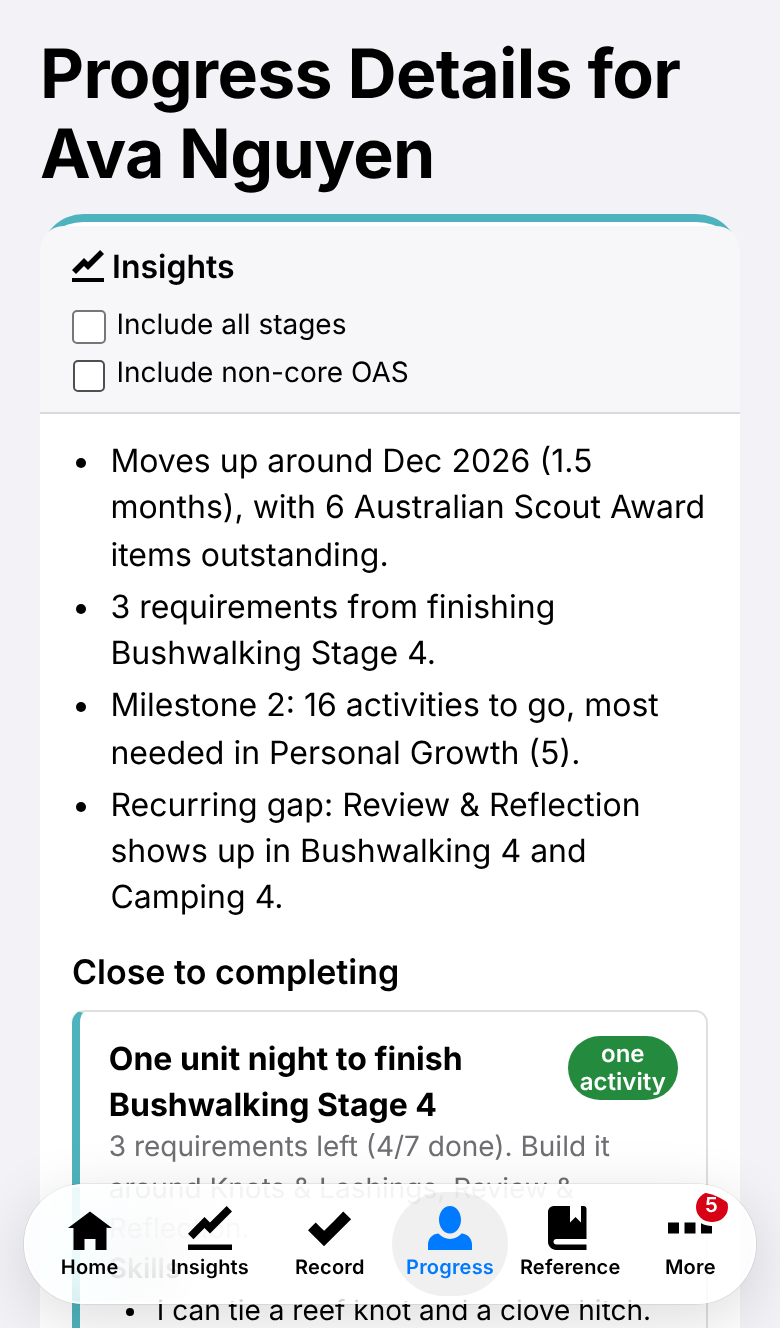
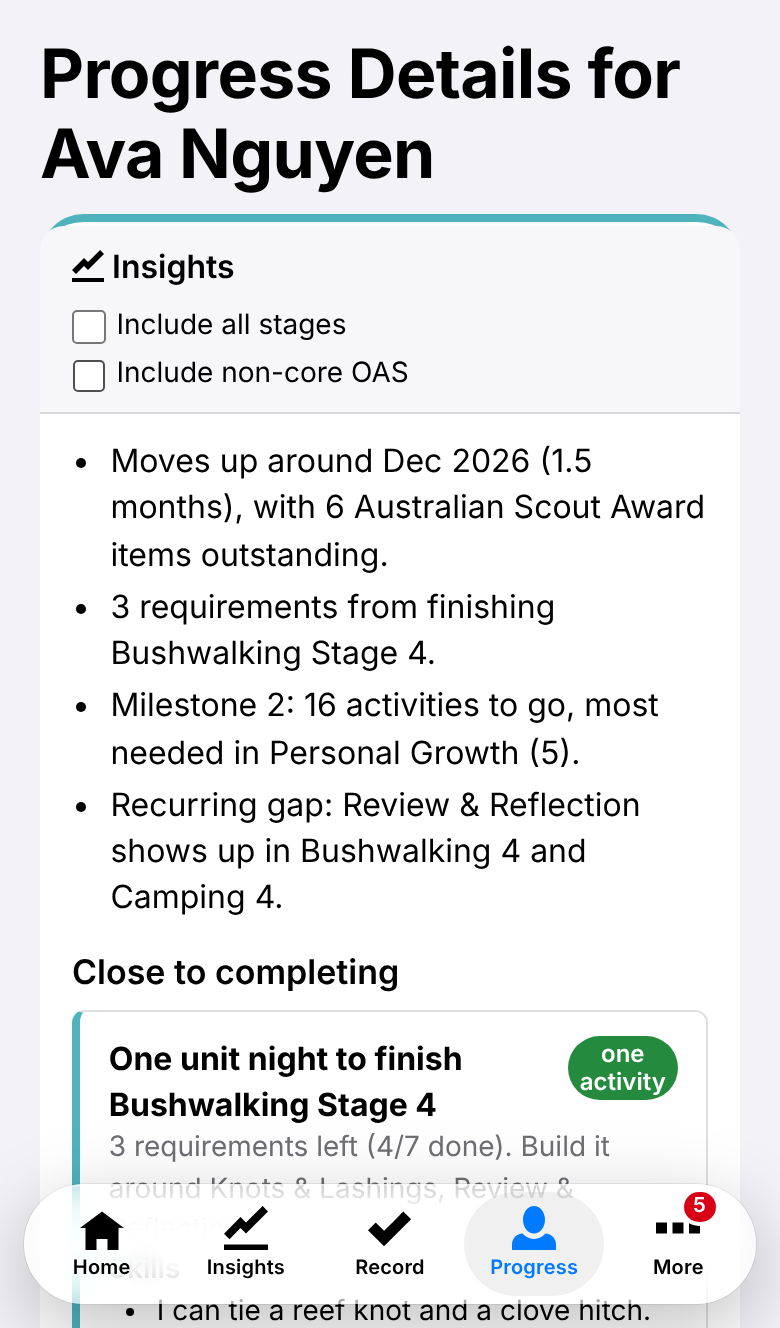
Phone tabs: Progress under More, and the open page swaps in for Reference
Five tabs instead of six, so they're less cramped. For leaders Progress moves under More. While a page from
More is open (Progress or Approvals) it takes Reference's place in the bar, with its count if it has one,
and Reference moves under More. Youth keep Progress in the bar as their main page. The desktop sidebar
is unchanged.

Claude-Session: https://claude.ai/code/session_015mRLp29RKmPLuQrvmduhrB

Changed region(s): [[0.2154, 0.8953, 0.7692, 0.9571], [0.8308, 0.8953, 0.9538, 0.9571], [0.0923, 0.8953, 0.1538, 0.9571]]

diff --git a/src/lib/navigation.ts b/src/lib/navigation.ts
@@ -27,7 +27,7 @@ export interface NavOptions {
 	approvalsWaiting?: number;
 }
 
-/** The main pages: tabs along the bottom on phones, the top of the sidebar on desktop */
+/** The main pages: the top of the sidebar on desktop, and on phones the tabs along the bottom (see phoneTabs) */
 export function mainPages({ isYouth }: NavOptions): NavPage[] {
 	const pages: NavPage[] = [
 		{ href: '', icon: 'home', title: 'Home', shortTitle: 'Home', exact: true }
@@ -51,7 +51,7 @@ export function mainPages({ isYouth }: NavOptions): NavPage[] {
 	return pages;
 }
 
-/** Less used pages: under More on phones, the bottom of the sidebar on desktop */
+/** Less used pages: the bottom of the sidebar on desktop, and under More on phones (see phoneTabs) */
 export function morePages({ isYouth, approvalsWaiting = 0 }: NavOptions): NavPage[] {
 	const pages: NavPage[] = [];
 	if (!isYouth)
@@ -66,6 +66,30 @@ export function morePages({ isYouth, approvalsWaiting = 0 }: NavOptions): NavPag
 		...pages,
 		{ href: 'logout/', icon: 'account-logout', title: 'Logout', shortTitle: 'Logout' }
 	];
+}
+
+/** Pages that may stand in for Reference on the phone's tab bar while they're open */
+const SWAPPABLE = ['progress/', 'approvals/'];
+
+/**
+	The phone's tab bar and its More menu. Fewer tabs than the sidebar so they aren't cramped: for leaders
+	Progress goes under More. While a page from More is open it takes Reference's place in the bar, and
+	Reference goes under More, so the current page always has a tab of its own.
+*/
+export function phoneTabs(options: NavOptions, path: string): { main: NavPage[]; more: NavPage[] } {
+	let main = mainPages(options);
+	let more = morePages(options);
+	if (!options.isYouth) {
+		more = [...main.filter((p) => p.href === 'progress/'), ...more];
+		main = main.filter((p) => p.href !== 'progress/');
+	}
+	const open = more.find((p) => SWAPPABLE.includes(p.href) && isActive(p, path));
+	const reference = main.find((p) => p.href === 'oas-reference/');
+	if (open && reference) {
+		main = main.map((p) => (p === reference ? open : p));
+		more = [reference, ...more.filter((p) => p !== open)];
+	}
+	return { main, more };
 }
 
 /** Logging has no menu item: tapping the version opens it, as it's only needed to help solve a problem */

diff --git a/tests/e2e/shell.e2e.ts b/tests/e2e/shell.e2e.ts
@@ -115,7 +115,7 @@ test.describe('phone', () => {
 		await expect(page.locator('.top-bar')).toHaveCount(0);
 		// The labels: More also carries the approvals badge
 		const tabs = page.locator('.tab-bar .tab .tab-label');
-		await expect(tabs).toHaveText(['Home', 'Insights', 'Record', 'Progress', 'Reference', 'More']);
+		await expect(tabs).toHaveText(['Home', 'Insights', 'Record', 'Reference', 'More']);
 		await expect(page.locator('.tab-bar .tab.active')).toHaveText('Home');
 
 		await page.locator('.tab-bar a', { hasText: 'Record' }).click();
@@ -123,10 +123,34 @@ test.describe('phone', () => {
 		await expect(page.locator('.tab-bar .tab.active')).toHaveText('Record');
 	});
 
+	test("a page opened from More takes Reference's place in the bar", async ({ page }) => {
+		await logIn(page);
+		const tabs = page.locator('.tab-bar .tab .tab-label');
+		await page.locator('.tab-bar button', { hasText: 'More' }).click();
+		await page.locator('.more-item', { hasText: 'Progress' }).click();
+		await expect(page).toHaveURL(/\/progress\/$/);
+		await expect(tabs).toHaveText(['Home', 'Insights', 'Record', 'Progress', 'More']);
+		await expect(page.locator('.tab-bar .tab.active')).toHaveText('Progress');
+		await page.locator('.tab-bar button', { hasText: 'More' }).click();
+		await expect(page.locator('.more-item')).toHaveText([
+			/^\s*Reference\s*$/,
+			/^\s*Approvals 3 waiting for you\s*$/,
+			/^\s*Logout\s*$/
+		]);
+		await page.locator('.more-item', { hasText: 'Approvals' }).click();
+		await expect(tabs).toHaveText(['Home', 'Insights', 'Record', 'Approvals', 'More']);
+		await expect(page.locator('.tab-bar a', { hasText: 'Approvals' })).toHaveAccessibleName(
+			'Approvals, 3 waiting'
+		);
+		await page.locator('.tab-bar a', { hasText: 'Home' }).click();
+		await expect(tabs).toHaveText(['Home', 'Insights', 'Record', 'Reference', 'More']);
+	});
+
 	test('More opens the less used pages, and Logout signs out', async ({ page }) => {
 		await logIn(page);
 		await page.locator('.tab-bar button', { hasText: 'More' }).click();
 		await expect(page.locator('.more-item')).toHaveText([
+			/^\s*Progress\s*$/,
 			/^\s*Approvals 3 waiting for you\s*$/,
 			/^\s*Logout\s*$/
 		]);

diff --git a/src/lib/navigation.test.ts b/src/lib/navigation.test.ts
@@ -1,5 +1,12 @@
 import { describe, expect, it } from 'vitest';
-import { isActive, mainPages, moreBadge, morePages, signedOutPages } from './navigation.js';
+import {
+	isActive,
+	mainPages,
+	moreBadge,
+	morePages,
+	phoneTabs,
+	signedOutPages
+} from './navigation.js';
 
 const leader = { signedIn: true, isYouth: false, logging: false };
 const youth = { signedIn: true, isYouth: true, logging: false };
@@ -50,5 +57,46 @@ describe('navigation', () => {
 		expect(isActive(progress, '/progress/')).toBe(true);
 		expect(isActive(progress, '/progress/m1/record-oas')).toBe(true);
 		expect(isActive(progress, '/oas/sign-off/')).toBe(false);
+	});
+
+	describe('phone tabs', () => {
+		const titles = ({ main, more }: ReturnType<typeof phoneTabs>) => ({
+			main: main.map((p) => p.shortTitle),
+			more: more.map((p) => p.title)
+		});
+
+		it('put Progress under More for leaders, to keep the tab bar roomy', () => {
+			expect(titles(phoneTabs(leader, '/insights/'))).toEqual({
+				main: ['Home', 'Insights', 'Record', 'Reference'],
+				more: ['Progress', 'Approvals', 'Logout']
+			});
+		});
+
+		it('swap the open page from More into the bar, and Reference into More', () => {
+			expect(titles(phoneTabs(leader, '/progress/m1/'))).toEqual({
+				main: ['Home', 'Insights', 'Record', 'Progress'],
+				more: ['Reference', 'Approvals', 'Logout']
+			});
+			expect(titles(phoneTabs(leader, '/approvals/'))).toEqual({
+				main: ['Home', 'Insights', 'Record', 'Approvals'],
+				more: ['Reference', 'Progress', 'Logout']
+			});
+		});
+
+		it('keep Progress in the bar for youth, as their main page', () => {
+			expect(titles(phoneTabs(youth, '/progress/'))).toEqual({
+				main: ['Home', 'Progress', 'Reference'],
+				more: ['Logout']
+			});
+		});
+
+		it('leave the bar as it is on the logging page', () => {
+			expect(titles(phoneTabs(leader, '/logging/')).main).toEqual([
+				'Home',
+				'Insights',
+				'Record',
+				'Reference'
+			]);
+		});
 	});
 });

diff --git a/src/lib/components/AppNav.svelte b/src/lib/components/AppNav.svelte
@@ -12,6 +12,7 @@
 		mainPages,
 		moreBadge,
 		morePages,
+		phoneTabs,
 		signedOutPages,
 		type NavOptions,
 		type NavPage
@@ -24,11 +25,14 @@
 	// Read after a badge's count. Kept with its space in a string: as plain text the space is trimmed, and a
 	// screen reader hears "2waiting"
 	const WAITING = ' waiting for you';
-	const main = $derived(options.signedIn ? mainPages(options) : []);
-	const more = $derived(options.signedIn ? morePages(options) : []);
-	const sidebar = $derived(options.signedIn ? [...main, ...more] : signedOutPages());
 	// The current address within the app, without the base path
 	const path = $derived(page.url.pathname.slice(pagePath('').length - 1));
+	const sidebar = $derived(
+		options.signedIn ? [...mainPages(options), ...morePages(options)] : signedOutPages()
+	);
+	const tabs = $derived(options.signedIn ? phoneTabs(options, path) : { main: [], more: [] });
+	const main = $derived(tabs.main);
+	const more = $derived(tabs.more);
 	const onLogging = $derived(path.startsWith(`/${LOGGING_HREF}`));
 	const onMorePage = $derived(onLogging || more.some((item) => isActive(item, path)));
 	const versionText = $derived(options.logging ? ' · logging on' : '');
@@ -168,9 +172,13 @@
 				class:active={isActive(item, path) && !moreOpen}
 				class:current={isActive(item, path) && !onMorePage}
 				href={href(item)}
+				aria-label={item.badge ? `${item.shortTitle}, ${item.badge} waiting` : undefined}
 				onclick={expandOnTap}
 			>
-				<Icon name={item.icon} />
+				<span class="tab-icon">
+					<Icon name={item.icon} />
+					{#if item.badge}<span class="badge tab-badge" aria-hidden="true">{item.badge}</span>{/if}
+				</span>
 				<span class="tab-label">{item.shortTitle}</span>
 			</a>
 		{/each}
